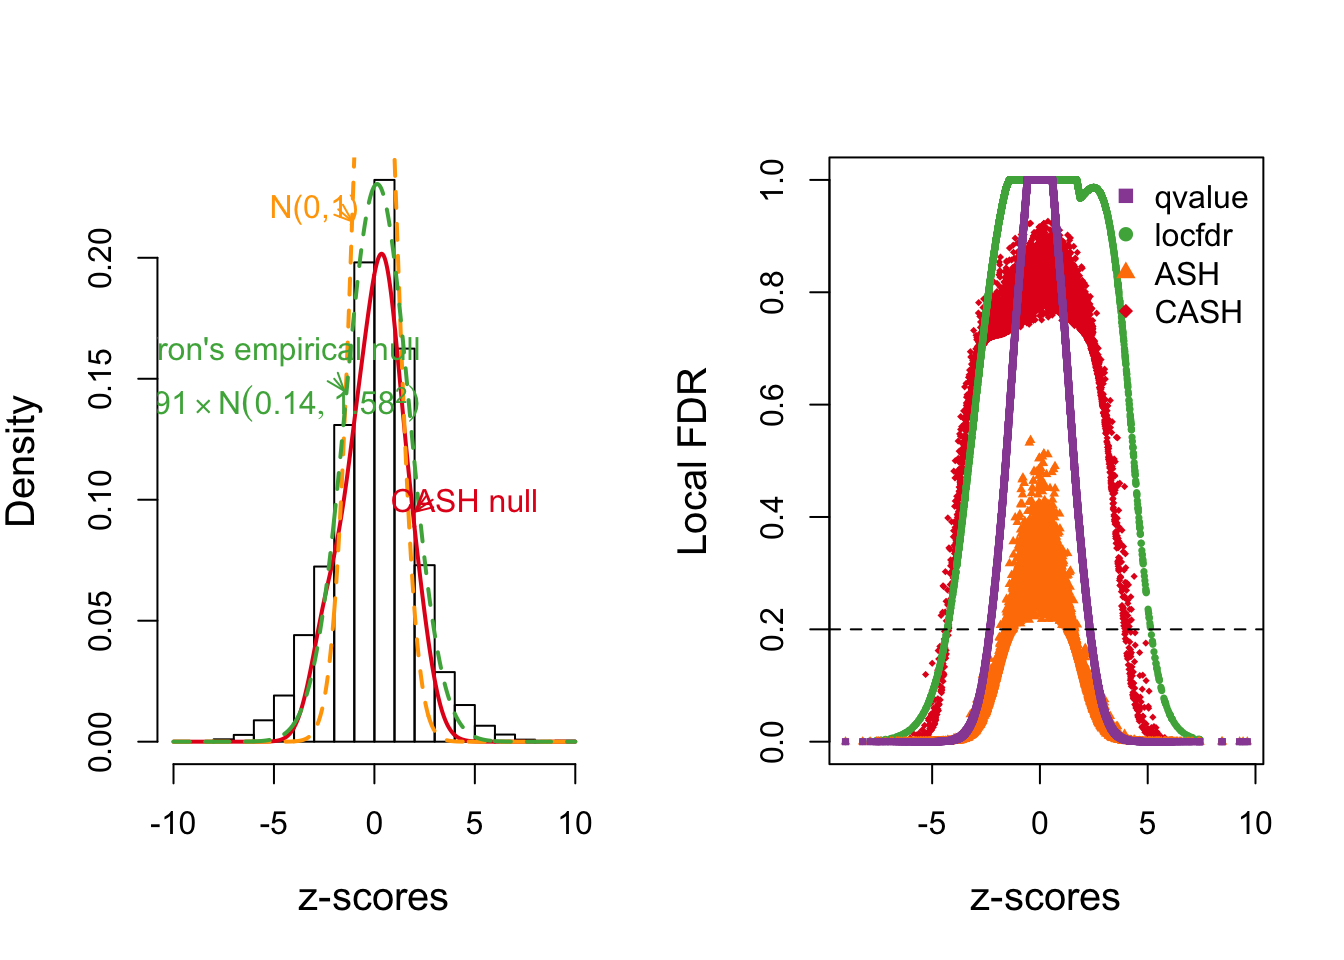
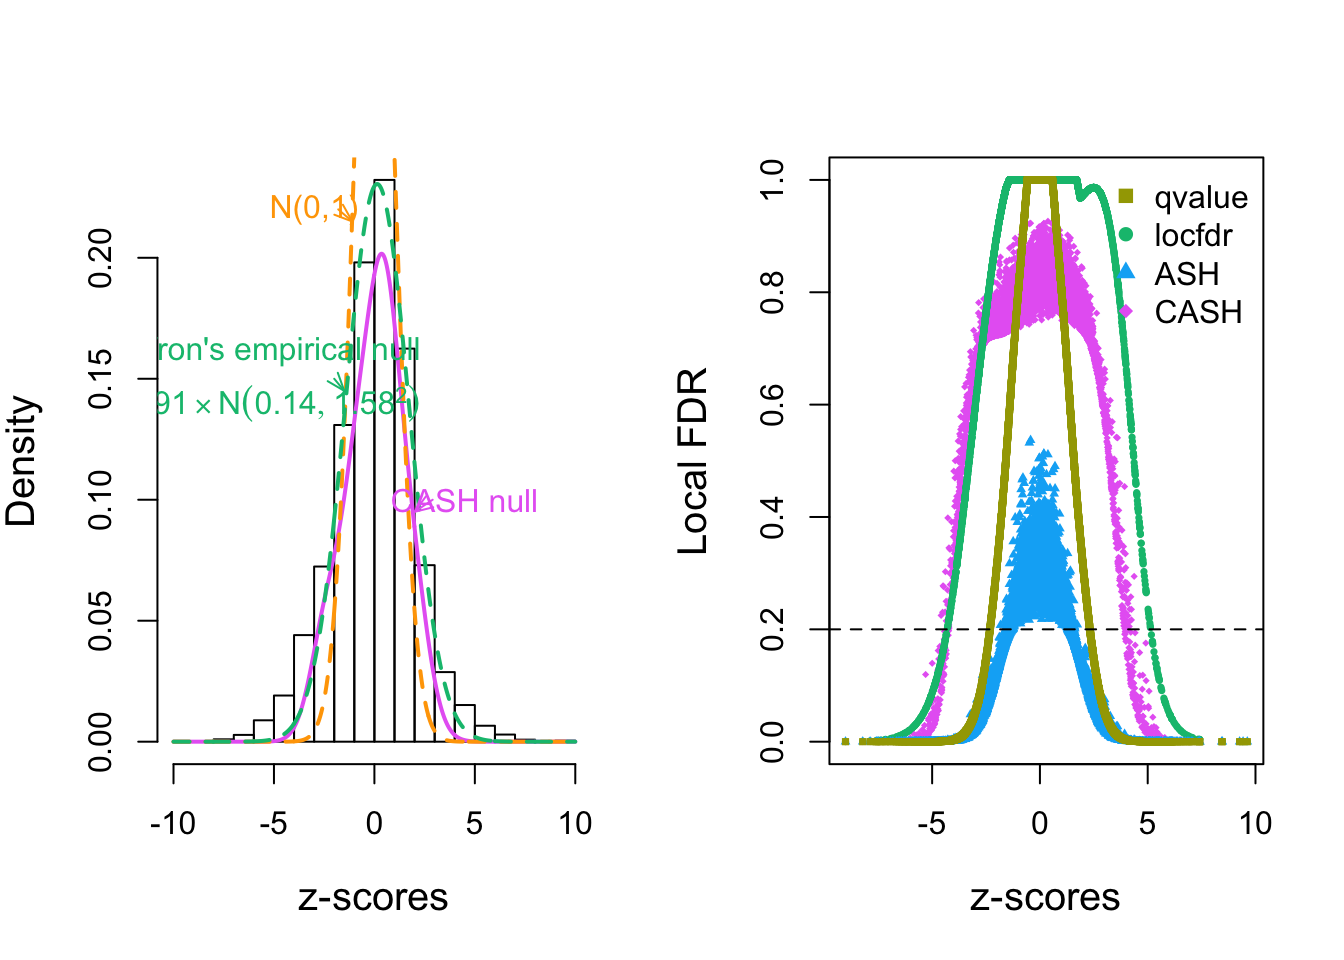
Build site.

diff --git a/docs/efron_leukemia.html b/docs/efron_leukemia.html
@@ -332,10 +332,10 @@ div.tocify {
 shared across the workflowr files. -->
 <!-- Update knitr chunk options -->
 <!-- Insert the date the file was last updated -->
-<p><strong>Last updated:</strong> 2018-05-09</p>
+<p><strong>Last updated:</strong> 2018-05-10</p>
 <!-- Insert the code version (Git commit SHA1) if Git repository exists and R
  package git2r is installed -->
-<p><strong>Code version:</strong> 4070fcd</p>
+<p><strong>Code version:</strong> a2904d9</p>
 <!-- Add your analysis here -->
 <div id="introduction" class="section level2">
 <h2>Introduction</h2>
@@ -391,7 +391,8 @@ for (i in 1 : gd.ord) {
 }
 y.plot = matrix_lik_plot %*% fit.cash$w * fit.cash$fitted_g$pi[1]
 
-method.col &lt;- c(&quot;#377eb8&quot;, &quot;#984ea3&quot;, &quot;#4daf4a&quot;, &quot;#ff7f00&quot;, &quot;#e41a1c&quot;)
+method.col &lt;- scales::hue_pal()(5)
+# method.col &lt;- c(&quot;#377eb8&quot;, &quot;#984ea3&quot;, &quot;#4daf4a&quot;, &quot;#ff7f00&quot;, &quot;#e41a1c&quot;)
 
 par(mfrow = c(1, 2))
 hist(z, prob = TRUE, main = &quot;&quot;, xlab = expression(paste(z, &quot;-scores&quot;)), cex.lab = 1.25)
@@ -453,7 +454,8 @@ for (i in 1 : gd.ord) {
 }
 y.plot = matrix_lik_plot %*% fit.cash$w * fit.cash$fitted_g$pi[1]
 
-method.col &lt;- c(&quot;#377eb8&quot;, &quot;#984ea3&quot;, &quot;#4daf4a&quot;, &quot;#ff7f00&quot;, &quot;#e41a1c&quot;)
+method.col &lt;- scales::hue_pal()(5)
+# method.col &lt;- c(&quot;#377eb8&quot;, &quot;#984ea3&quot;, &quot;#4daf4a&quot;, &quot;#ff7f00&quot;, &quot;#e41a1c&quot;)
 
 setEPS()
 postscript(&quot;../output/fig/leukemia.eps&quot;, height = 5, width = 12)
